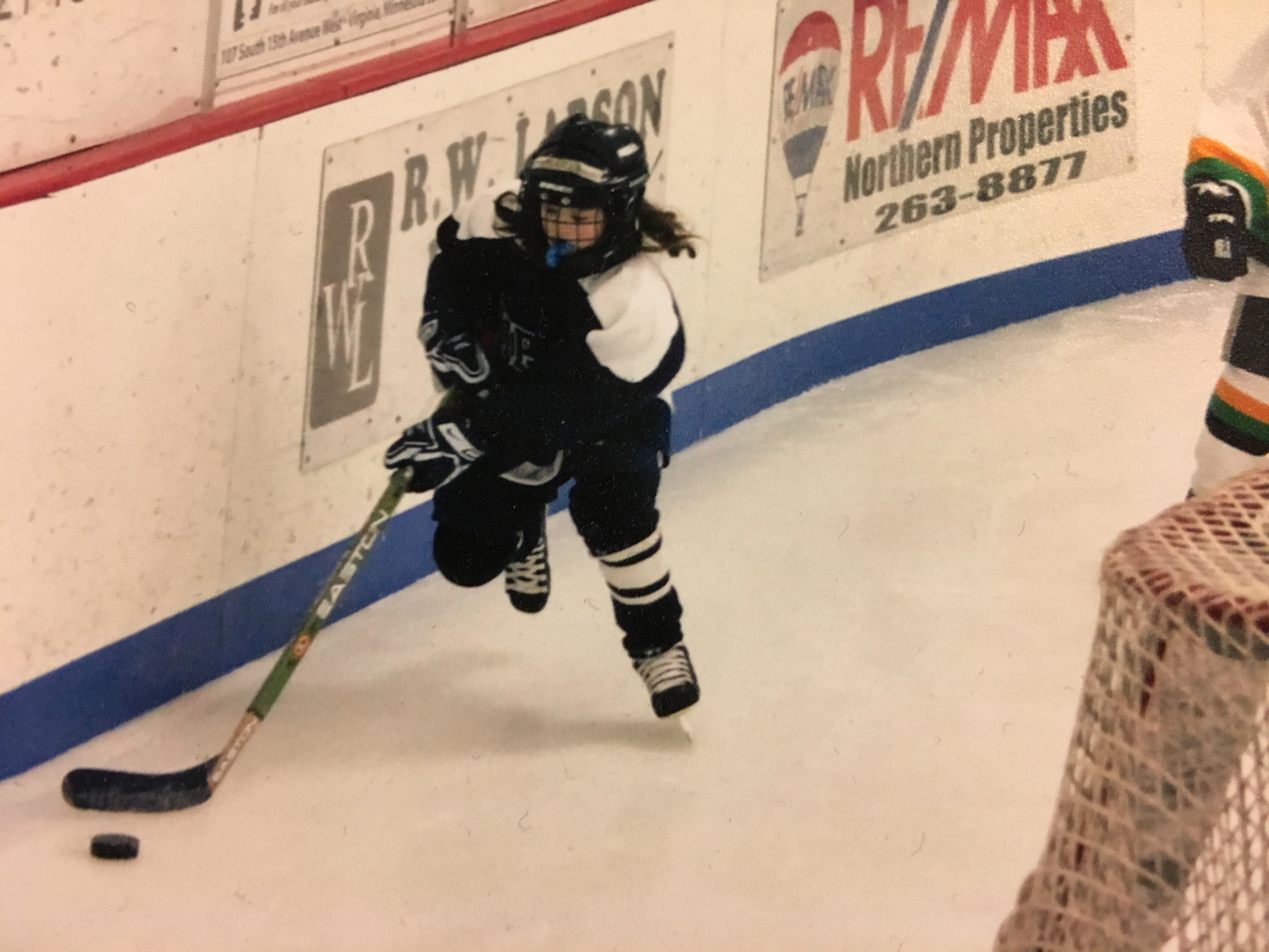
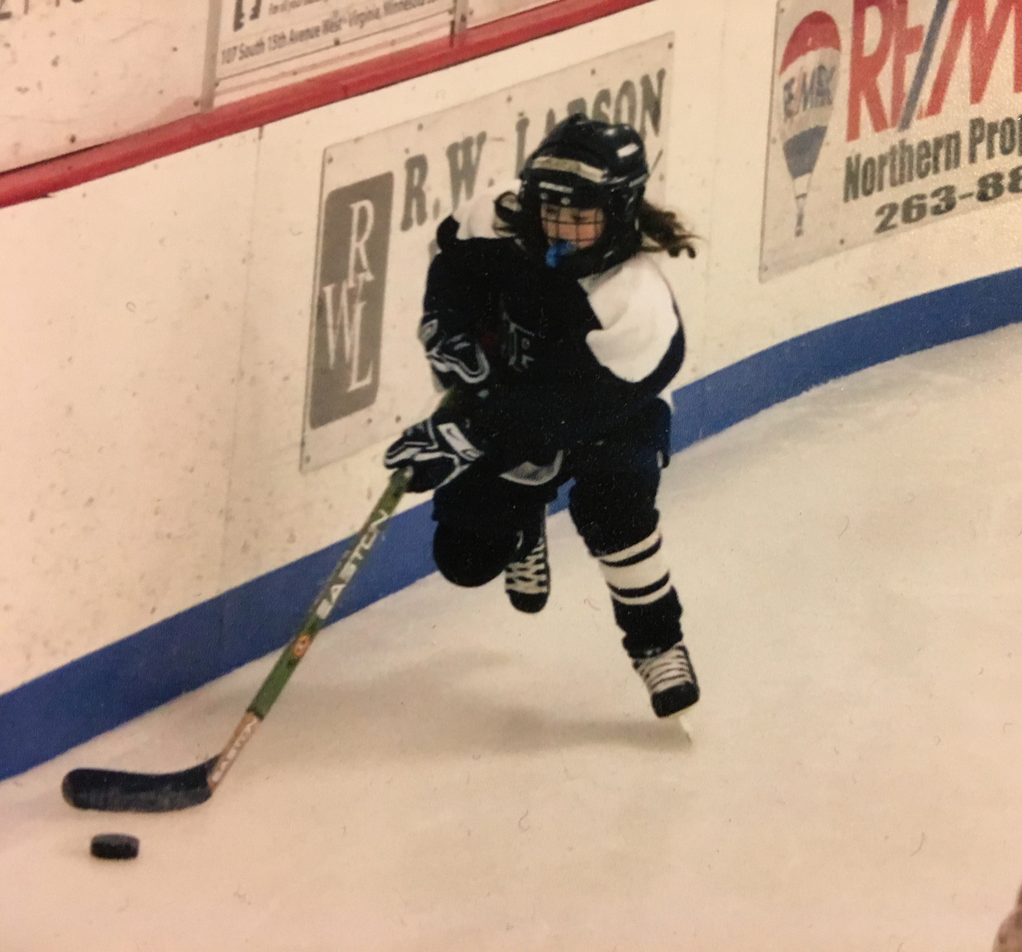
minor changes

diff --git a/interests.html b/interests.html
@@ -59,7 +59,7 @@
 <div class="row g-4 mb-5">
   <div class="col-md-12">
     <div class="card h-100 flex-row">
-      <img src="sports.JPG" class="img-fluid" style="max-width: 150px; object-fit: cover;" alt="Tennis">
+      <img src="sports.JPG" class="img-fluid" style="max-width: 150px; object-fit: cover;" alt="Hockey">
       <div class="card-body">
         <h5 class="card-title">Sports</h5>
         <p class="card-text">I played hockey growing up and tennis on my undergraduate team, and I still enjoy playing both recreationally.</p>
